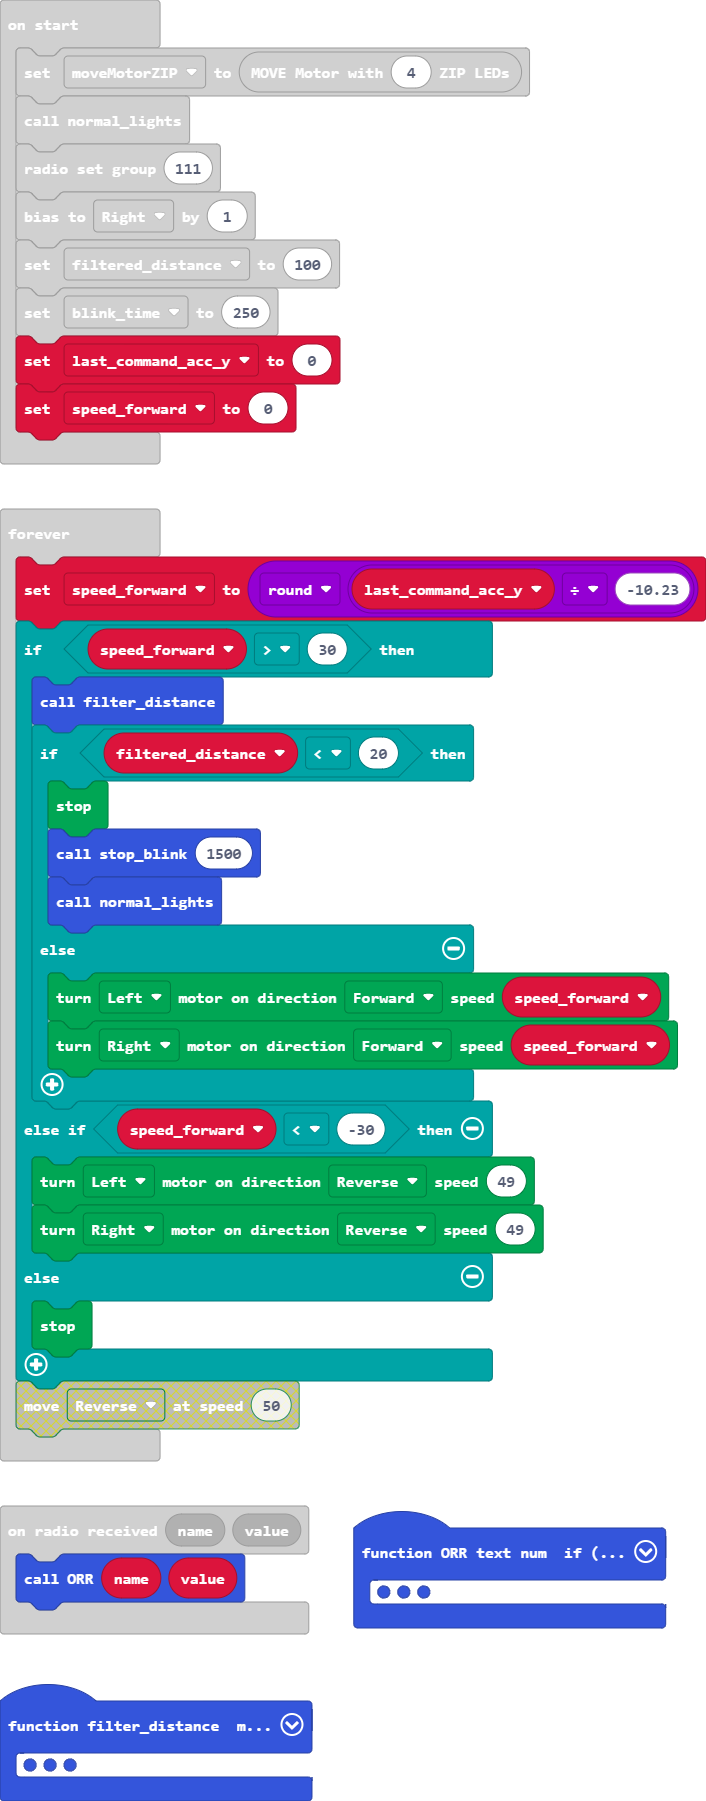
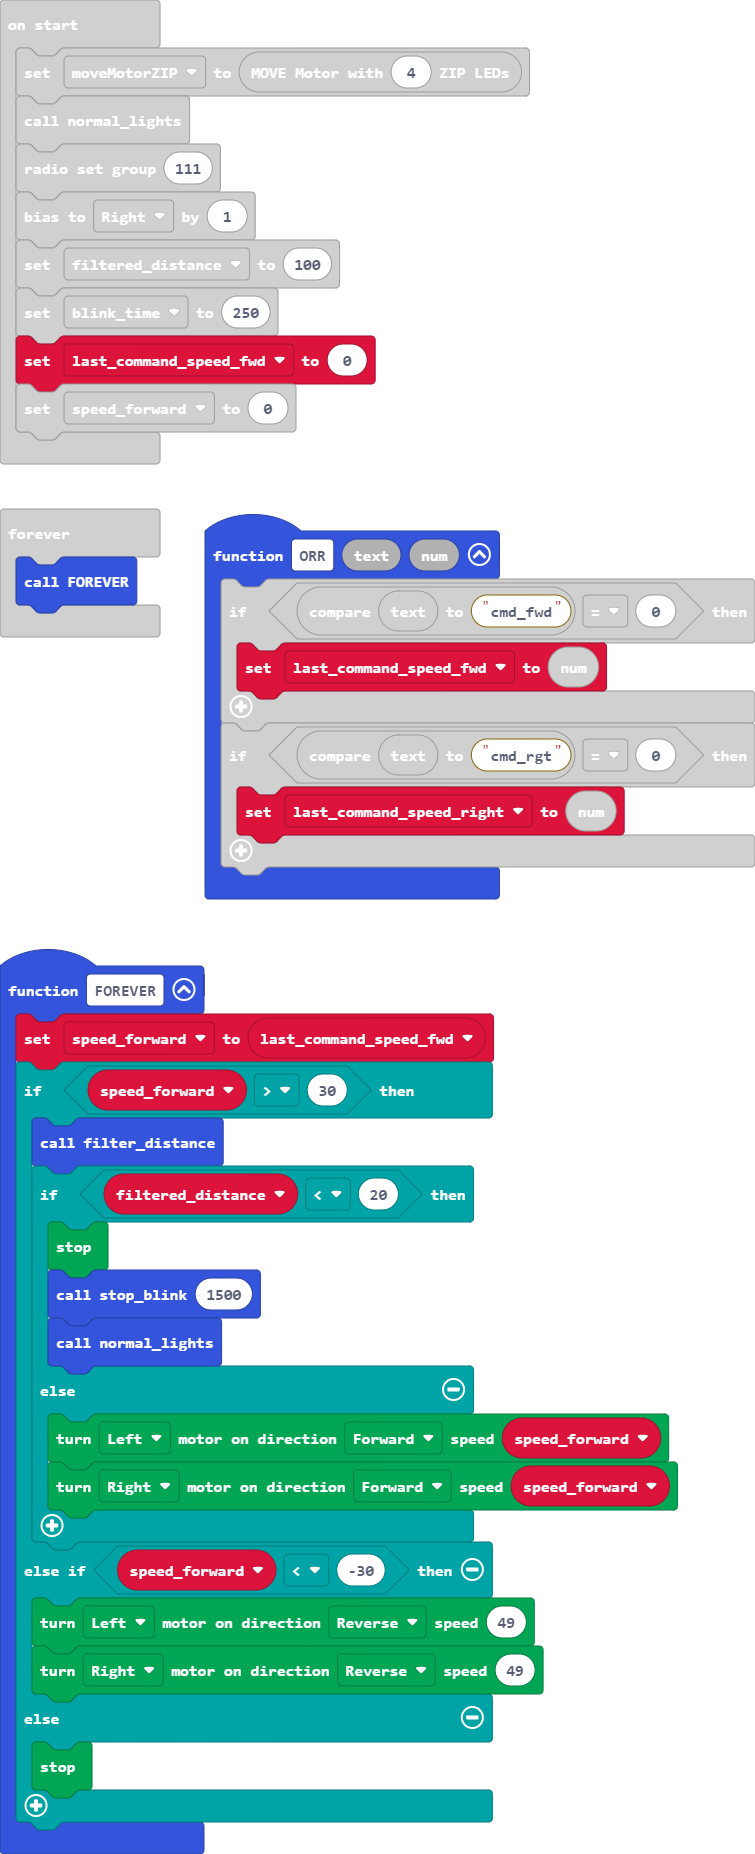
command calced  in joystick

diff --git a/main.ts b/main.ts
@@ -1,3 +1,22 @@
+function FOREVER () {
+    speed_forward = last_command_speed_fwd
+    if (speed_forward > 30) {
+        filter_distance()
+        if (filtered_distance < 20) {
+            Kitronik_Move_Motor.stop()
+            stop_blink(1500)
+            normal_lights()
+        } else {
+            Kitronik_Move_Motor.motorOn(Kitronik_Move_Motor.Motors.MotorLeft, Kitronik_Move_Motor.MotorDirection.Forward, speed_forward)
+            Kitronik_Move_Motor.motorOn(Kitronik_Move_Motor.Motors.MotorRight, Kitronik_Move_Motor.MotorDirection.Forward, speed_forward)
+        }
+    } else if (speed_forward < -30) {
+        Kitronik_Move_Motor.motorOn(Kitronik_Move_Motor.Motors.MotorLeft, Kitronik_Move_Motor.MotorDirection.Reverse, 49)
+        Kitronik_Move_Motor.motorOn(Kitronik_Move_Motor.Motors.MotorRight, Kitronik_Move_Motor.MotorDirection.Reverse, 49)
+    } else {
+        Kitronik_Move_Motor.stop()
+    }
+}
 function normal_lights () {
     moveMotorZIP.clear()
     moveMotorZIP = Kitronik_Move_Motor.createMoveMotorZIPLED(4)
@@ -21,11 +40,11 @@ function stop_blink (time_in_ms: number) {
     }
 }
 function ORR (text: string, num: number) {
-    if (text.compare("acc_y") == 0) {
-        last_command_acc_y = num
+    if (text.compare("cmd_fwd") == 0) {
+        last_command_speed_fwd = num
     }
-    if (text.compare("acc_x") == 0) {
-        last_command_acc_x = num
+    if (text.compare("cmd_rgt") == 0) {
+        last_command_speed_right = num
     }
 }
 radio.onReceivedString(function (receivedString) {
@@ -47,8 +66,9 @@ function filter_distance () {
     radio.sendValue("filterd distance", filtered_distance)
     radio.sendValue("measured distance", Kitronik_Move_Motor.measure())
 }
-let last_command_acc_x = 0
-let last_command_acc_y = 0
+let last_command_speed_right = 0
+let speed_forward = 0
+let last_command_speed_fwd = 0
 let blink_time = 0
 let filtered_distance = 0
 let moveMotorZIP: Kitronik_Move_Motor.MoveMotorZIP = null
@@ -58,24 +78,8 @@ radio.setGroup(111)
 Kitronik_Move_Motor.motorBalance(Kitronik_Move_Motor.SpinDirections.Right, 1)
 filtered_distance = 100
 blink_time = 250
-last_command_acc_y = 0
-let speed_forward = 0
+last_command_speed_fwd = 0
+speed_forward = 0
 basic.forever(function () {
-    speed_forward = Math.round(last_command_acc_y / -10.23)
-    if (speed_forward > 30) {
-        filter_distance()
-        if (filtered_distance < 20) {
-            Kitronik_Move_Motor.stop()
-            stop_blink(1500)
-            normal_lights()
-        } else {
-            Kitronik_Move_Motor.motorOn(Kitronik_Move_Motor.Motors.MotorLeft, Kitronik_Move_Motor.MotorDirection.Forward, speed_forward)
-            Kitronik_Move_Motor.motorOn(Kitronik_Move_Motor.Motors.MotorRight, Kitronik_Move_Motor.MotorDirection.Forward, speed_forward)
-        }
-    } else if (speed_forward < -30) {
-        Kitronik_Move_Motor.motorOn(Kitronik_Move_Motor.Motors.MotorLeft, Kitronik_Move_Motor.MotorDirection.Reverse, 49)
-        Kitronik_Move_Motor.motorOn(Kitronik_Move_Motor.Motors.MotorRight, Kitronik_Move_Motor.MotorDirection.Reverse, 49)
-    } else {
-        Kitronik_Move_Motor.stop()
-    }
+    FOREVER()
 })

diff --git a/main.py b/main.py
@@ -1,81 +1,96 @@
-function normal_lights () {
-    moveMotorZIP.clear()
-    moveMotorZIP = Kitronik_Move_Motor.createMoveMotorZIPLED(4)
-    moveMotorZIP.setZipLedColor(0, Kitronik_Move_Motor.colors(Kitronik_Move_Motor.ZipLedColors.White))
-    moveMotorZIP.setZipLedColor(1, Kitronik_Move_Motor.colors(Kitronik_Move_Motor.ZipLedColors.White))
-    moveMotorZIP.setZipLedColor(2, Kitronik_Move_Motor.colors(Kitronik_Move_Motor.ZipLedColors.Orange))
-    moveMotorZIP.setZipLedColor(3, Kitronik_Move_Motor.colors(Kitronik_Move_Motor.ZipLedColors.Orange))
-    moveMotorZIP.show()
-}
-function stop_blink (time_in_ms: number) {
-    moveMotorZIP.clear()
-    moveMotorZIP.setZipLedColor(0, Kitronik_Move_Motor.colors(Kitronik_Move_Motor.ZipLedColors.White))
-    moveMotorZIP.setZipLedColor(1, Kitronik_Move_Motor.colors(Kitronik_Move_Motor.ZipLedColors.White))
-    moveMotorZIP.setZipLedColor(2, Kitronik_Move_Motor.colors(Kitronik_Move_Motor.ZipLedColors.Red))
-    moveMotorZIP.setZipLedColor(3, Kitronik_Move_Motor.colors(Kitronik_Move_Motor.ZipLedColors.Red))
-    for (let index = 0; index < time_in_ms / blink_time; index++) {
-        moveMotorZIP.rotate(2)
-        music.playTone(659, music.beat(BeatFraction.Whole))
-        basic.pause(blink_time)
-        moveMotorZIP.show()
-    }
-}
-function ORR (text: string, num: number) {
-    if (text.compare("acc_y") == 0) {
-        last_command_acc_y = num
-    }
-    if (text.compare("acc_x") == 0) {
-        last_command_acc_x = num
-    }
-}
-radio.onReceivedString(function (receivedString) {
-    if (receivedString.compare("beep") == 0) {
-        Kitronik_Move_Motor.beepHorn()
-    }
-    if (receivedString.compare("beeeeeeeep") == 0) {
-        music.playMelody("C5 C5 C5 C5 C5 C5 C5 C5 ", 120)
-    }
-})
-radio.onReceivedValue(function (name, value) {
-    ORR(name, value)
-})
-function filter_distance () {
-    Kitronik_Move_Motor.setUltrasonicUnits(Kitronik_Move_Motor.Units.Centimeters)
-    if (Kitronik_Move_Motor.measure() != 0 && Kitronik_Move_Motor.measure() < 200) {
-        filtered_distance = Kitronik_Move_Motor.measure()
-    }
-    radio.sendValue("filterd distance", filtered_distance)
-    radio.sendValue("measured distance", Kitronik_Move_Motor.measure())
-}
-let last_command_acc_x = 0
-let last_command_acc_y = 0
-let blink_time = 0
-let filtered_distance = 0
-let moveMotorZIP: Kitronik_Move_Motor.MoveMotorZIP = null
-moveMotorZIP = Kitronik_Move_Motor.createMoveMotorZIPLED(4)
-normal_lights()
-radio.setGroup(111)
-Kitronik_Move_Motor.motorBalance(Kitronik_Move_Motor.SpinDirections.Right, 1)
-filtered_distance = 100
-blink_time = 250
-last_command_acc_y = 0
-let speed_forward = 0
-basic.forever(function () {
-    speed_forward = Math.round(last_command_acc_y / -10.23)
-    if (speed_forward > 30) {
+def FOREVER():
+    global speed_forward
+    speed_forward = last_command_speed_fwd
+    if speed_forward > 30:
         filter_distance()
-        if (filtered_distance < 20) {
+        if filtered_distance < 20:
             Kitronik_Move_Motor.stop()
             stop_blink(1500)
             normal_lights()
-        } else {
-            Kitronik_Move_Motor.motorOn(Kitronik_Move_Motor.Motors.MotorLeft, Kitronik_Move_Motor.MotorDirection.Forward, speed_forward)
-            Kitronik_Move_Motor.motorOn(Kitronik_Move_Motor.Motors.MotorRight, Kitronik_Move_Motor.MotorDirection.Forward, speed_forward)
-        }
-    } else if (speed_forward < -30) {
-        Kitronik_Move_Motor.motorOn(Kitronik_Move_Motor.Motors.MotorLeft, Kitronik_Move_Motor.MotorDirection.Reverse, 49)
-        Kitronik_Move_Motor.motorOn(Kitronik_Move_Motor.Motors.MotorRight, Kitronik_Move_Motor.MotorDirection.Reverse, 49)
-    } else {
+        else:
+            Kitronik_Move_Motor.motor_on(Kitronik_Move_Motor.Motors.MOTOR_LEFT,
+                Kitronik_Move_Motor.MotorDirection.FORWARD,
+                speed_forward)
+            Kitronik_Move_Motor.motor_on(Kitronik_Move_Motor.Motors.MOTOR_RIGHT,
+                Kitronik_Move_Motor.MotorDirection.FORWARD,
+                speed_forward)
+    elif speed_forward < -30:
+        Kitronik_Move_Motor.motor_on(Kitronik_Move_Motor.Motors.MOTOR_LEFT,
+            Kitronik_Move_Motor.MotorDirection.REVERSE,
+            49)
+        Kitronik_Move_Motor.motor_on(Kitronik_Move_Motor.Motors.MOTOR_RIGHT,
+            Kitronik_Move_Motor.MotorDirection.REVERSE,
+            49)
+    else:
         Kitronik_Move_Motor.stop()
-    }
-})
+def normal_lights():
+    global moveMotorZIP
+    moveMotorZIP.clear()
+    moveMotorZIP = Kitronik_Move_Motor.create_move_motor_zipled(4)
+    moveMotorZIP.set_zip_led_color(0,
+        Kitronik_Move_Motor.colors(Kitronik_Move_Motor.ZipLedColors.WHITE))
+    moveMotorZIP.set_zip_led_color(1,
+        Kitronik_Move_Motor.colors(Kitronik_Move_Motor.ZipLedColors.WHITE))
+    moveMotorZIP.set_zip_led_color(2,
+        Kitronik_Move_Motor.colors(Kitronik_Move_Motor.ZipLedColors.ORANGE))
+    moveMotorZIP.set_zip_led_color(3,
+        Kitronik_Move_Motor.colors(Kitronik_Move_Motor.ZipLedColors.ORANGE))
+    moveMotorZIP.show()
+def stop_blink(time_in_ms: number):
+    moveMotorZIP.clear()
+    moveMotorZIP.set_zip_led_color(0,
+        Kitronik_Move_Motor.colors(Kitronik_Move_Motor.ZipLedColors.WHITE))
+    moveMotorZIP.set_zip_led_color(1,
+        Kitronik_Move_Motor.colors(Kitronik_Move_Motor.ZipLedColors.WHITE))
+    moveMotorZIP.set_zip_led_color(2,
+        Kitronik_Move_Motor.colors(Kitronik_Move_Motor.ZipLedColors.RED))
+    moveMotorZIP.set_zip_led_color(3,
+        Kitronik_Move_Motor.colors(Kitronik_Move_Motor.ZipLedColors.RED))
+    for index in range(time_in_ms / blink_time):
+        moveMotorZIP.rotate(2)
+        music.play_tone(659, music.beat(BeatFraction.WHOLE))
+        basic.pause(blink_time)
+        moveMotorZIP.show()
+def ORR(text: str, num: number):
+    global last_command_speed_fwd, last_command_speed_right
+    if text.compare("cmd_fwd") == 0:
+        last_command_speed_fwd = num
+    if text.compare("cmd_rgt") == 0:
+        last_command_speed_right = num
+
+def on_received_string(receivedString):
+    if receivedString.compare("beep") == 0:
+        Kitronik_Move_Motor.beep_horn()
+    if receivedString.compare("beeeeeeeep") == 0:
+        music.play_melody("C5 C5 C5 C5 C5 C5 C5 C5 ", 120)
+radio.on_received_string(on_received_string)
+
+def on_received_value(name, value):
+    ORR(name, value)
+radio.on_received_value(on_received_value)
+
+def filter_distance():
+    global filtered_distance
+    Kitronik_Move_Motor.set_ultrasonic_units(Kitronik_Move_Motor.Units.CENTIMETERS)
+    if Kitronik_Move_Motor.measure() != 0 and Kitronik_Move_Motor.measure() < 200:
+        filtered_distance = Kitronik_Move_Motor.measure()
+    radio.send_value("filterd distance", filtered_distance)
+    radio.send_value("measured distance", Kitronik_Move_Motor.measure())
+last_command_speed_right = 0
+speed_forward = 0
+last_command_speed_fwd = 0
+blink_time = 0
+filtered_distance = 0
+moveMotorZIP: Kitronik_Move_Motor.MoveMotorZIP = None
+moveMotorZIP = Kitronik_Move_Motor.create_move_motor_zipled(4)
+normal_lights()
+radio.set_group(111)
+Kitronik_Move_Motor.motor_balance(Kitronik_Move_Motor.SpinDirections.RIGHT, 1)
+filtered_distance = 100
+blink_time = 250
+last_command_speed_fwd = 0
+speed_forward = 0
+
+def on_forever():
+    FOREVER()
+basic.forever(on_forever)
